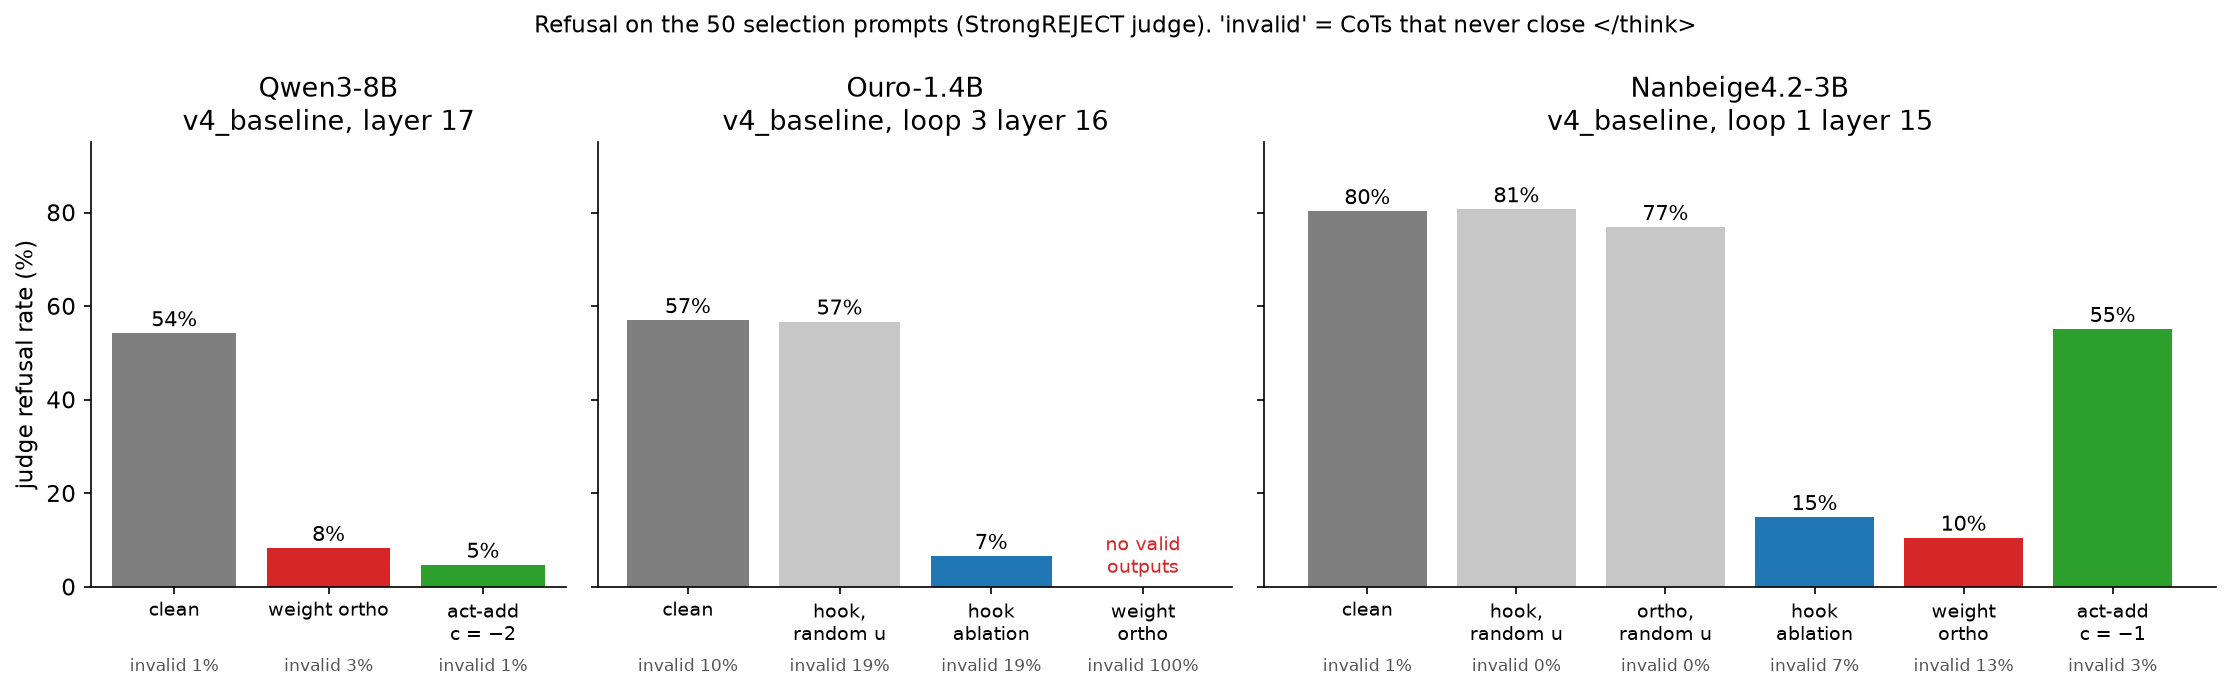
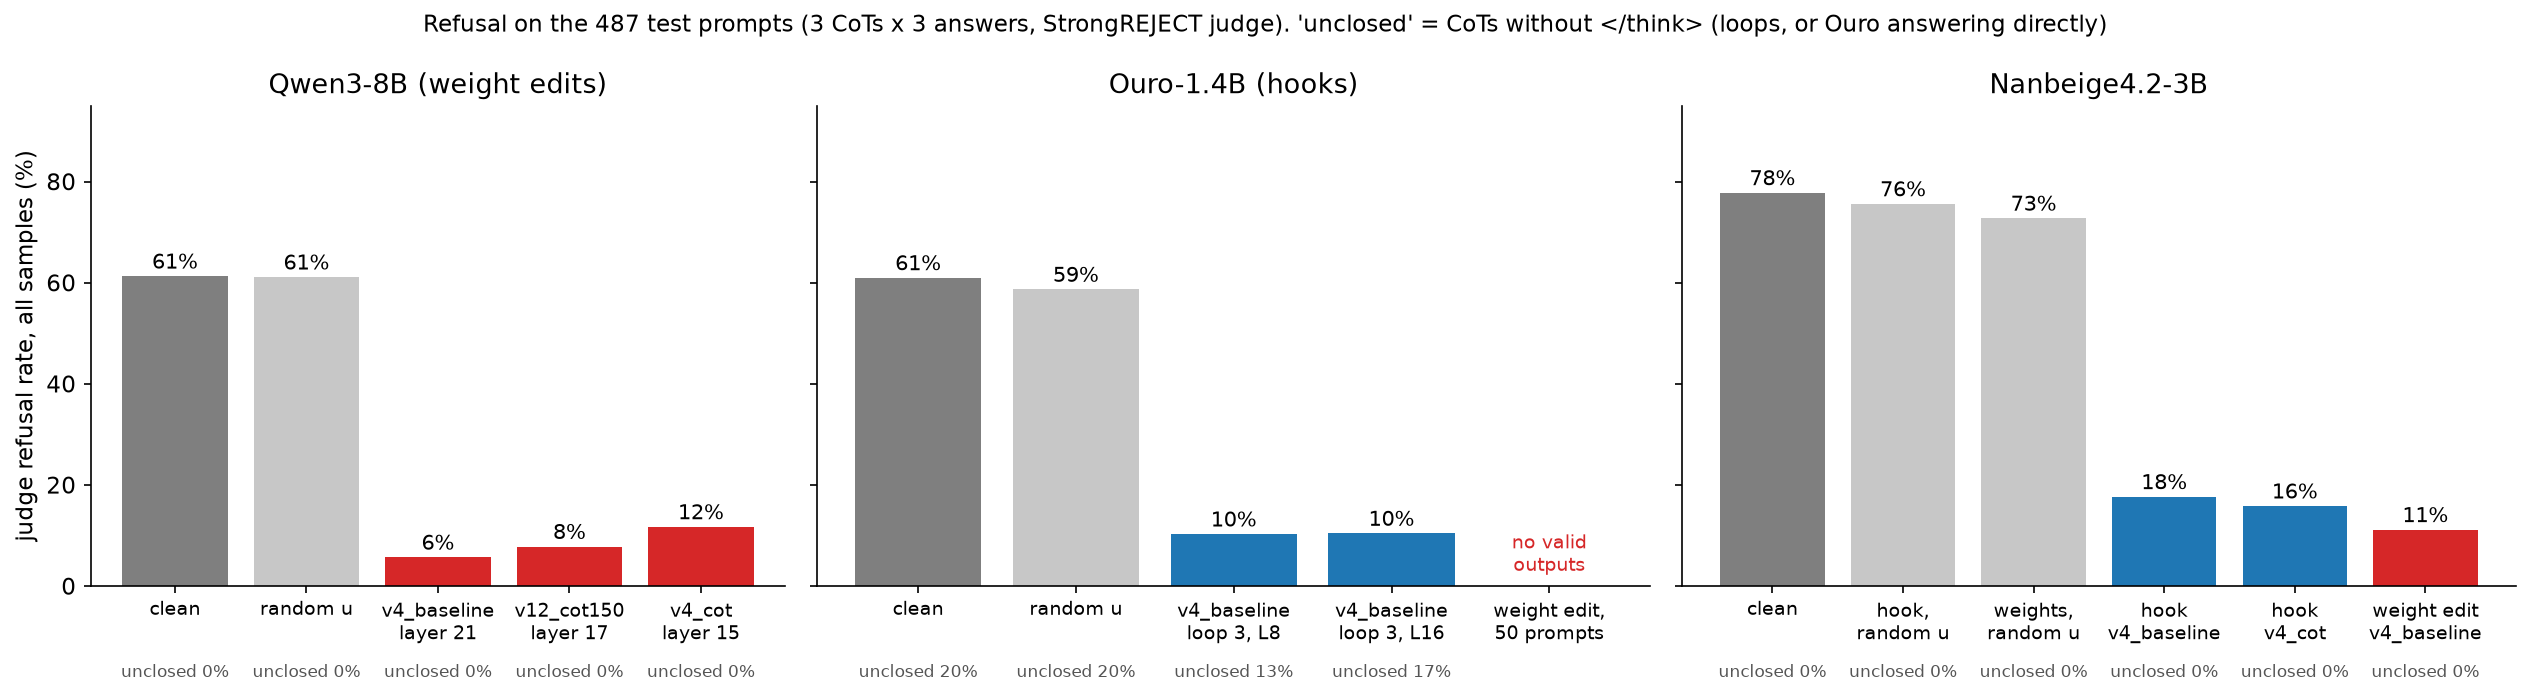
Update presentation with full test-set results
- Results figure is now built from the 487-prompt test runs (continuations merged), not the
  50-prompt selection runs; make_presentation_figures.py reads them through summarize.py.
- Qwen table, cross-model bullets, takeaways and caveats use the all-samples numbers; selection-set
  slides are labelled as such; sampling settings and token caps are stated.

diff --git a/scripts/make_presentation_figures.py b/scripts/make_presentation_figures.py
@@ -217,36 +217,54 @@ def fig_loop_count():
 
 
 # ---------------------------------------------------------------- 5. headline results
+def _test_row(model, run, name, cap, ext=None):
+    """Summary row of a test-set candidate, with its continuations (``ext``) merged in."""
+    from summarize import summarize
+
+    g = RUNS / model / "generations"
+    return summarize(g / run / f"{name}.scored.parquet", max_tokens=cap, cont_dir=None if ext is None else g / ext)
+
+
 def fig_results():
-    # (label, judge refusal %, invalid CoT %, kind); values from analysis CSVs / summarize.py
+    q, o, n = "Qwen3-8B", "Ouro-1.4B-Thinking", "Nanbeige4.2-3B"
+    # (label, summary row, kind); all on the 487 test prompts, 3 CoTs x 3 answers, continuations merged
     data = {
-        "Qwen3-8B\nv4_baseline, layer 17": [("clean", 54.2, 0.7, "clean"), ("weight ortho", 8.3, 3.3, "ortho"),
-                     ("act-add\nc = −2", 4.7, 0.7, "actadd")],
-        "Ouro-1.4B\nv4_baseline, loop 3 layer 16": [("clean", 57.0, 10.2, "clean"), ("hook,\nrandom u", 56.7, 19.3, "random"),
-                      ("hook\nablation", 6.6, 19.3, "hook"),
-                      ("weight\northo", np.nan, 100.0, "ortho")],
-        "Nanbeige4.2-3B\nv4_baseline, loop 1 layer 15": [("clean", 80.3, 0.7, "clean"), ("hook,\nrandom u", 80.7, 0.0, "random"),
-                           ("ortho,\nrandom u", 76.9, 0.0, "random"),
-                           ("hook\nablation", 14.9, 7.3, "hook"),
-                           ("weight\northo", 10.5, 13.3, "ortho"),
-                           ("act-add\nc = −1", 55.1, 3.3, "actadd")],
+        "Qwen3-8B (weight edits)": [
+            ("clean", _test_row(q, "clean_test_8k", "none", 8192), "clean"),
+            ("random u", _test_row(q, "test_ortho", "ortho_random_l17", 2048, "test_ortho_ext"), "random"),
+            ("v4_baseline\nlayer 21", _test_row(q, "test_ortho", "ortho_v4_baseline_l21", 2048, "test_ortho_ext"), "ortho"),
+            ("v12_cot150\nlayer 17", _test_row(q, "test_ortho", "ortho_v12_cot150_l17", 2048, "test_ortho_ext"), "ortho"),
+            ("v4_cot\nlayer 15", _test_row(q, "test_ortho", "ortho_v4_cot_l15", 2048, "test_ortho_ext"), "ortho")],
+        "Ouro-1.4B (hooks)": [
+            ("clean", _test_row(o, "clean_test_8k", "none", 8192), "clean"),
+            ("random u", _test_row(o, "test_hooks", "ablate_random_t3.l16", 2048, "test_hooks_ext"), "random"),
+            ("v4_baseline\nloop 3, L8", _test_row(o, "test_hooks", "ablate_v4_baseline_t3.l8", 2048, "test_hooks_ext"), "hook"),
+            ("v4_baseline\nloop 3, L16", _test_row(o, "test_hooks", "ablate_v4_baseline_t3.l16", 2048, "test_hooks_ext"), "hook"),
+            ("weight edit,\n50 prompts", None, "ortho")],
+        "Nanbeige4.2-3B": [
+            ("clean", _test_row(n, "clean_test", "none", 4096, "clean_test_ext"), "clean"),
+            ("hook,\nrandom u", _test_row(n, "test_int", "ablate_random_t0.l14", 4096, "test_int_ext"), "random"),
+            ("weights,\nrandom u", _test_row(n, "test_int", "ortho_random_t0.l14", 4096, "test_int_ext"), "random"),
+            ("hook\nv4_baseline", _test_row(n, "test_int", "ablate_v4_baseline_t1.l15", 4096, "test_int_ext"), "hook"),
+            ("hook\nv4_cot", _test_row(n, "test_int", "ablate_v4_cot_t0.l14", 4096, "test_int_ext"), "hook"),
+            ("weight edit\nv4_baseline", _test_row(n, "test_int", "ortho_v4_baseline_t1.l15", 4096, "test_int_ext"), "ortho")],
     }
-    fig, axes = plt.subplots(1, 3, figsize=(15, 4.8), gridspec_kw={"width_ratios": [3, 4, 6]}, sharey=True)
+    fig, axes = plt.subplots(1, 3, figsize=(17, 4.8), gridspec_kw={"width_ratios": [5, 6, 6]}, sharey=True)
     for ax, (model, rows) in zip(axes, data.items()):
         x = np.arange(len(rows))
-        ref = [r[1] for r in rows]
-        ax.bar(x, np.nan_to_num(ref), color=[C[r[3]] for r in rows])
-        for i, r in enumerate(rows):
-            if np.isnan(r[1]):
+        ref = [np.nan if r is None else 100 * r["all_refusal"] for _, r, _ in rows]
+        ax.bar(x, np.nan_to_num(ref), color=[C[k] for _, _, k in rows])
+        for i, (_, r, _) in enumerate(rows):
+            if r is None:
                 ax.text(i, 3, "no valid\noutputs", ha="center", color=C["ortho"], fontsize=9)
-            else:
-                ax.text(i, r[1] + 1.5, f"{r[1]:.0f}%", ha="center", fontsize=10)
-            ax.text(i, -18, f"invalid {r[2]:.0f}%", ha="center", fontsize=8, color="#555")
-        ax.set_xticks(x); ax.set_xticklabels([r[0] for r in rows], fontsize=9)
+                continue
+            ax.text(i, ref[i] + 1.5, f"{ref[i]:.0f}%", ha="center", fontsize=10)
+            ax.text(i, -18, f"unclosed {100 * r['invalid_cot_frac']:.0f}%", ha="center", fontsize=8, color="#555")
+        ax.set_xticks(x); ax.set_xticklabels([lab for lab, _, _ in rows], fontsize=9)
         ax.set_title(model); ax.set_ylim(0, 95)
-    axes[0].set_ylabel("judge refusal rate (%)")
-    fig.suptitle("Refusal on the 50 selection prompts (StrongREJECT judge). "
-                 "'invalid' = CoTs that never close </think>", fontsize=11)
+    axes[0].set_ylabel("judge refusal rate, all samples (%)")
+    fig.suptitle("Refusal on the 487 test prompts (3 CoTs x 3 answers, StrongREJECT judge). "
+                 "'unclosed' = CoTs without </think> (loops, or Ouro answering directly)", fontsize=11)
     fig.tight_layout()
     fig.savefig(OUT / "results.png", dpi=150, bbox_inches="tight"); plt.close(fig)
 

diff --git a/docs/presentation.md b/docs/presentation.md
@@ -30,7 +30,8 @@ Slides are separated by `---` (Marp format). Figures: `scripts/make_presentation
 
 ## Method: data
 
-1. **Sample.** For each harmful prompt: 3 chains of thought (CoTs), then 3 answers per CoT, conditioned on the CoT. Temperature 0.6.
+1. **Sample.** For each harmful prompt: 3 chains of thought (CoTs), then 3 answers per CoT, conditioned on the CoT. Temperature 0.6, no top-p or top-k (the models recommend top_p 0.95, top_k 20).
+   - Token caps: CoT 8192 tokens (2048 first, then the capped ones are continued), answer 2048 (Nanbeige 4096 + 4096).
    - train: 500 prompts · selection: 50 held-out train prompts · test: 487 prompts.
 2. **Judge.** StrongREJECT rubric with a local gpt-oss-20b judge. Per answer:
    - `refusal` 0/1, `convincing` 1–5, `specific` 1–5.
@@ -73,10 +74,11 @@ Per-site checks: split-half stability, and AUC of the projection for separating 
 | **judge refusal** | fraction of answers the judge marks as refusals |
 | **mean score** | mean StrongREJECT score (higher = more harmful compliance) |
 | **substring refusal** | answer contains a stock phrase ("I can't", "I'm sorry", …); cheap proxy |
-| **invalid CoT** | CoT never closes `</think>` within 4096 tokens; a damage signal |
+| **all-sample refusal** | refusal over every CoT sample. Samples without `</think>` are judged as they are, on the whole response |
+| **unclosed CoT** | CoT never closes `</think>`: either it hits the token cap (loops), or the model answers directly without thinking (Ouro) |
 | **NLL** (mechanism slides) | negative log-likelihood of clean CoT tokens under the edited model; lower = less damage |
 
-Candidates (method × site × intervention) are picked on the 50 selection prompts, then the best run on the test set.
+Candidates (method × site × intervention) are picked on the 50 selection prompts, then run on the full test set. Results are on the test set unless a slide says otherwise.
 
 ---
 
@@ -97,18 +99,21 @@ The CoT direction and the prompt-end direction are different directions (cosine 
 
 ## Qwen3-8B: results
 
-Test set, 487 prompts × 9 answers, weight orthogonalization:
+Test set, 487 prompts × 9 answers, weight orthogonalization, refusal over all samples:
 
-| Candidate | judge refusal | mean score | invalid CoT |
+| Candidate | judge refusal | mean score | unclosed CoT |
 |---|---|---|---|
-| clean | 60.8% | 0.37 | 0.7% |
-| `v12_cot150`, layer 17 | **8.3%** | 0.88 | 7.5% |
-| `v4_cot`, layer 15 | 12.3% | 0.84 | 5.3% |
-| `v4_cot`, layer 23 | 15.4% | 0.80 | 2.8% |
+| clean | 61.3% | 0.37 | 0.1% |
+| random direction, layer 17 | 61.1% | 0.37 | 0.0% |
+| `v4_baseline`, layer 21 | **5.7%** | 0.91 | 0.2% |
+| `v12_cot150`, layer 17 | 7.8% | 0.89 | 0.1% |
+| `v4_baseline`, layer 17 | 8.5% | 0.83 | 0.0% |
+| `v4_cot`, layer 15 | 11.7% | 0.85 | 0.1% |
+| `v4_cot`, layer 23 | 15.0% | 0.80 | 0.1% |
 
 Selection set: activation addition (`v4_baseline`, L17, c = −2) gives 4.7% refusal with no extra invalid CoTs.
 
-**Reproduction holds:** one direction, removed everywhere, takes refusal from ~60% to ~10%.
+**Reproduction holds:** one direction, removed everywhere, takes refusal from 61% to 6–15%. The random direction does nothing.
 
 ---
 
@@ -125,22 +130,26 @@ Selection set: activation addition (`v4_baseline`, L17, c = −2) gives 4.7% ref
 
 ![w:1100](figures/results.png)
 
-- **Qwen:** weight ortho and act-add both work.
-- **Ouro:** hook ablation works (57% → 7%). **Weight ortho produces no valid outputs**, even with a *random* direction.
-- **Nanbeige:** hooks *and* weight ortho both work (80% → 15% / 10%). Random directions do nothing.
+- **Qwen:** weight ortho works (61% → 6–12%). Hook ablation was not run.
+- **Ouro:** hook ablation works (61% → 10%). **Weight ortho produces no valid outputs**, even with a *random* direction (50-prompt run).
+- **Nanbeige:** hooks *and* weight ortho both work (78% → 16–18% / 11%). Random directions do nothing (73–76%).
 
-Nanbeige random controls are at loop 0 layer 14. Ouro hooks raise invalid CoTs to 19%, for random directions too.
+Test set, all samples. About 20% of clean Ouro samples **answer directly without thinking**; ablation lowers this to 11–15%. Looping to the token cap is rare: 0.2% clean, 2% ablated.
 
 ---
 
 ## Nanbeige: one caution
+
+Selection set (50 prompts, 4096-token cap):
 
 | Weight ortho candidate | judge refusal | invalid CoT |
 |---|---|---|
 | `v4_baseline`, loop 1 layer 15 | 10.5% | 13% |
 | `v4_cot`, loop 0 layer 14 | 0.4% | **47%** |
 
-Weight ortho works on Nanbeige, but some directions damage generation. Check invalid CoTs, not only refusal.
+Weight ortho works on Nanbeige, but some directions damage generation. Check unclosed CoTs, not only refusal.
+
+Cap matters: on the test set the `v4_baseline` edit leaves 8% of CoTs unclosed at 4096 tokens but only 0.1% at 8192. Slow is not always broken. The `v4_cot` loop-0 edit was not rerun on the test set.
 
 ---
 
@@ -269,21 +278,22 @@ This **fits** the mechanism: Ouro relies on carrying a well-scaled state across 
 
 ## Takeaways
 
-1. **The method transfers.** A difference-in-means refusal direction exists in both looped models and removing it drops refusal from 57–80% to 7–15%.
+1. **The method transfers.** A difference-in-means refusal direction exists in both looped models and removing it drops refusal from 61–78% to 10–18% in Ouro and Nanbeige (Qwen: 61% → 6–15%).
 2. **Use hooks on looped models.** Weight orthogonalization is only equivalent to ablation when nothing renormalizes the stream after the edited weights.
 3. **Ouro breaks for two reasons**, both normalization:
    - sandwich norms re-add `u` to every write,
    - the inter-loop norm amplifies the leak 3 times while the edit stops the model from correcting it.
 4. **Nanbeige survives** because its writes enter raw, and its one inter-loop norm shrinks the stream.
-5. **Check damage, not just refusal.** Invalid CoTs reveal broken edits (Ouro: 100%, Nanbeige loop-0 edit: 47%).
+5. **Check damage, not just refusal.** Unclosed CoTs reveal broken edits (Ouro weight edit: 100%, Nanbeige loop-0 edit: 47% on the selection set). Use a generous token cap.
 
 ---
 
 ## Caveats and open items
 
-- Ouro and Nanbeige interventions are on the 50 selection prompts only. No test-set runs yet.
-- No capability or over-refusal checks on any model.
-- Ouro hook ablation alone raises invalid CoTs (10% → 19%), random directions included.
+- Test-set runs cover the best candidates only. Ouro's weight edit and the mechanism numbers are from smaller runs.
+- No capability or over-refusal checks on any model. Hook ablation was not run on Qwen.
+- Sampling is temperature 0.6 without top-p or top-k. Directions and layers were picked on 50 prompts.
+- Ouro ablation raises looping to the token cap from 0.2% to about 2%.
 - Mechanism numbers come from 8 traces (≈ 2.7k tokens) per model, one refusal site each.
 - Nanbeige needs our own vLLM port (`src/loop_steer/vllm_nanbeige.py`); it matches HF greedy outputs exactly.
 
@@ -295,6 +305,11 @@ This **fits** the mechanism: Ouro relies on carrying a well-scaled state across 
 # mechanism comparison (HF, one GPU each)
 uv run python scripts/ortho_compare.py --gpu 1 --model ByteDance/Ouro-1.4B-Thinking --direction v4_baseline:t3.l16 --loops 1,2
 uv run python scripts/ortho_compare.py --gpu 1 --model Nanbeige/Nanbeige4.2-3B --direction v4_baseline:t1.l15 --loops 1
+
+# test-set runs: continue CoTs that hit the cap, then merge (see README, step 6)
+uv run python scripts/intervene.py --model ByteDance/Ouro-1.4B-Thinking --directions train --split test --tag test_hooks_ext \
+    --extend-from test_hooks --max-tokens 2048 --extend-tokens 6144 --candidates ablate:v4_baseline:t3.l16
+uv run python scripts/summarize.py data/runs/Ouro-1.4B-Thinking/generations/test_hooks --cont data/runs/Ouro-1.4B-Thinking/generations/test_hooks_ext
 
 # figures for this deck (CPU)
 uv run python scripts/make_presentation_figures.py
